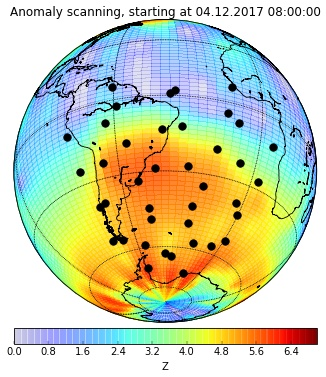
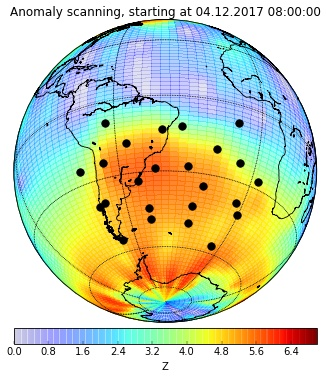
added anomaly planners

diff --git a/processing/anomaly_planner.py b/processing/anomaly_planner.py
@@ -19,7 +19,7 @@ max_exposure = 1
 hkc_buffer_time = 300
 
 dt = 240
-n = 2
+n = 1
 
 from_idx = 5804
 to_idx = 6815
